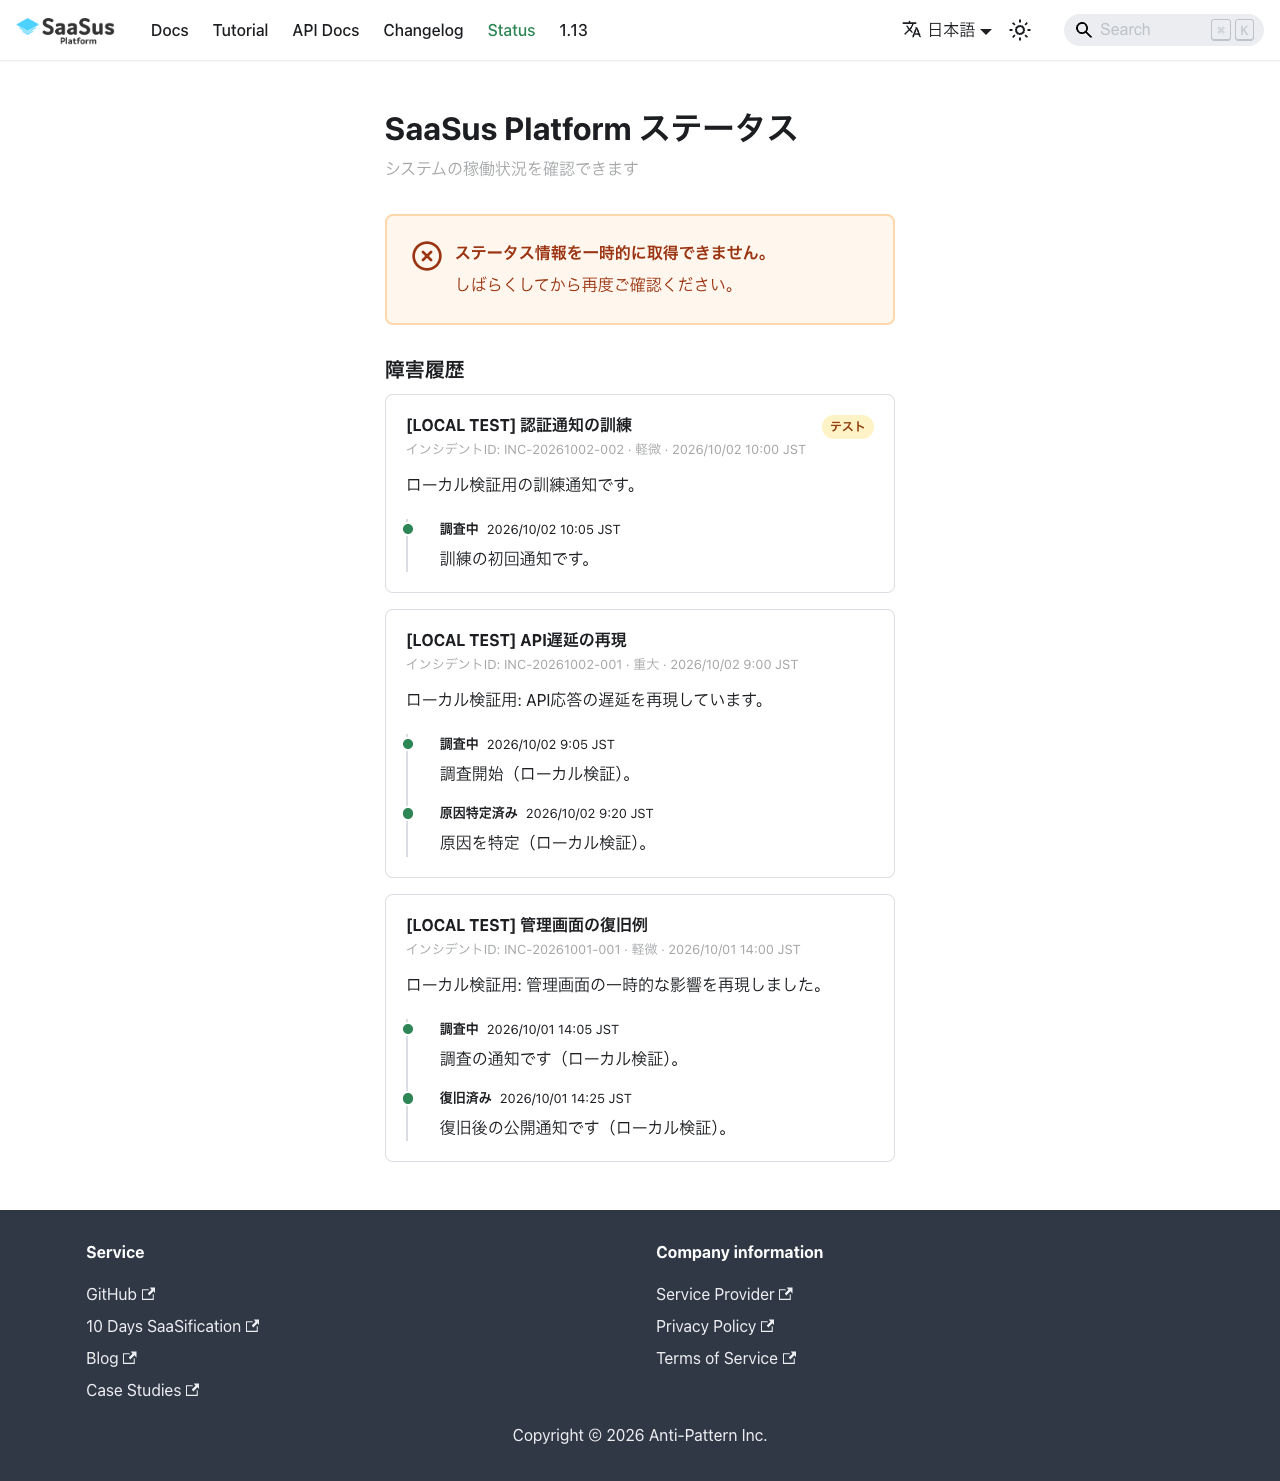
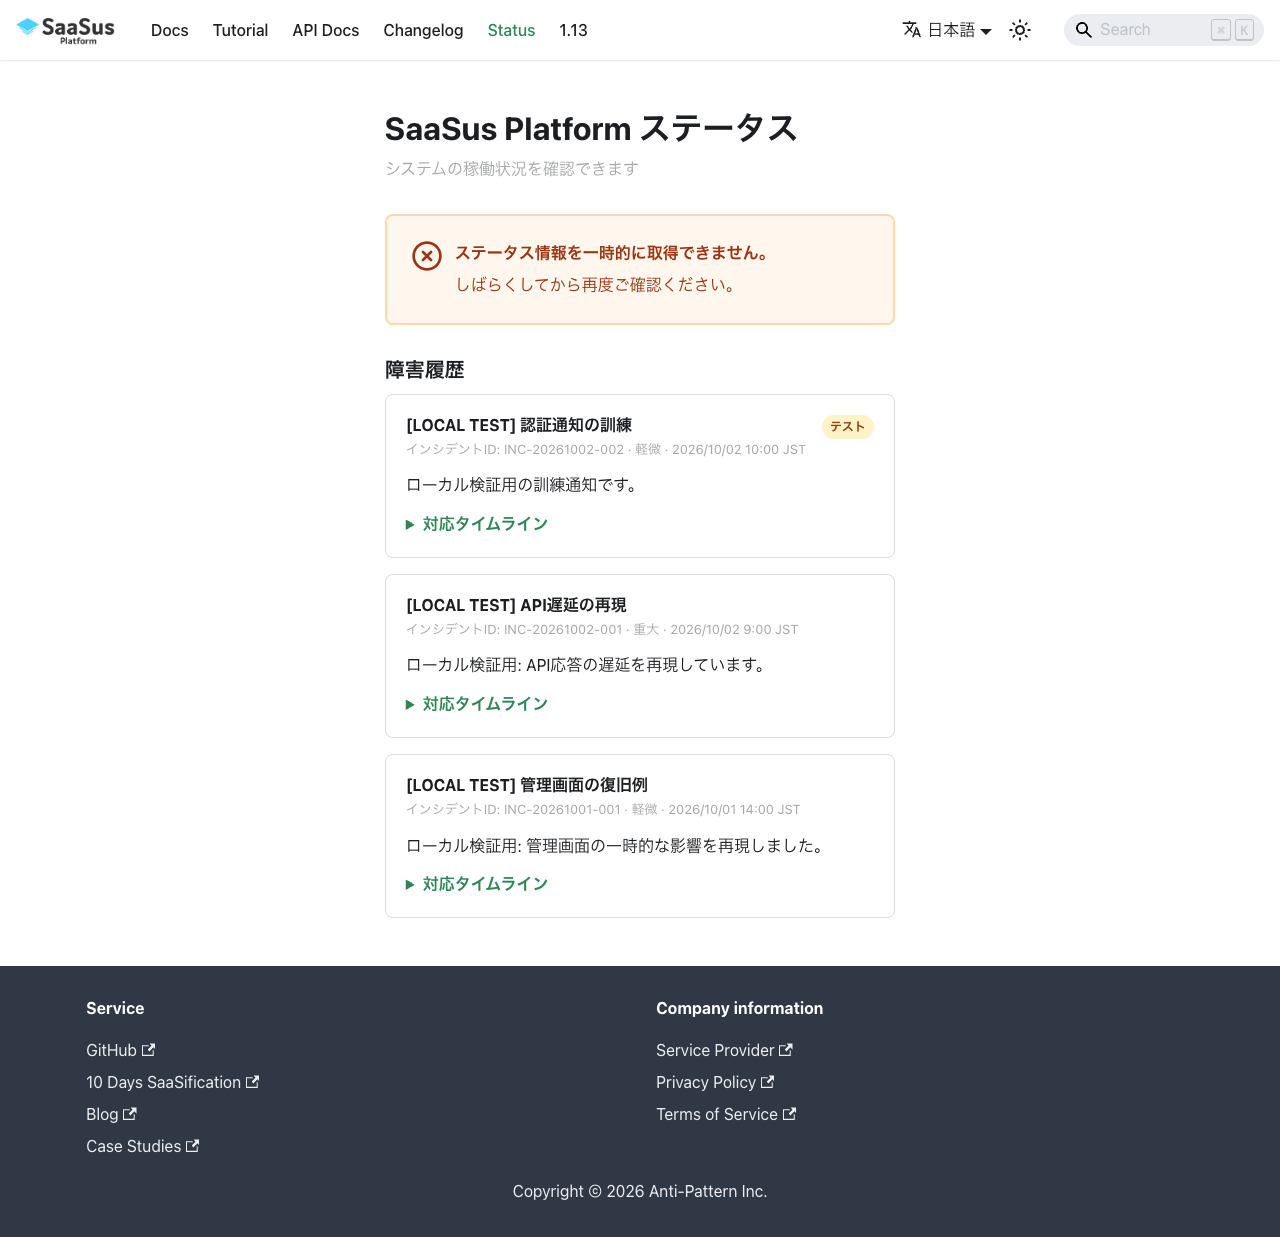
feat: paginate incident history and collapse response timelines

diff --git a/src/pages/status.tsx b/src/pages/status.tsx
@@ -287,6 +287,8 @@ function CurrentIncidentCard({
   );
 }
 
+const HISTORY_PAGE_SIZE = 10;
+
 function IncidentHistory({
   records,
   locale,
@@ -296,6 +298,28 @@ function IncidentHistory({
   locale: Locale;
   hasCurrentIncident: boolean;
 }) {
+  const [visibleCount, setVisibleCount] = useState(HISTORY_PAGE_SIZE);
+
+  // Preserve direct links to incidents beyond the initial page of history.
+  useEffect(() => {
+    const revealLinkedIncident = () => {
+      const incidentId = window.location.hash.slice(1);
+      const index = records.findIndex((record) => record.id === incidentId);
+      if (index < 0) return;
+      if (index >= visibleCount) {
+        setVisibleCount(Math.ceil((index + 1) / HISTORY_PAGE_SIZE) * HISTORY_PAGE_SIZE);
+        return;
+      }
+      const article = document.getElementById(incidentId);
+      const details = article?.querySelector('details');
+      if (details) details.open = true;
+      article?.scrollIntoView();
+    };
+    revealLinkedIncident();
+    window.addEventListener('hashchange', revealLinkedIncident);
+    return () => window.removeEventListener('hashchange', revealLinkedIncident);
+  }, [records, visibleCount]);
+
   return (
     <section className={styles.historySection} aria-labelledby="incident-history">
       <h2 id="incident-history" className={styles.sectionHeading}>
@@ -311,7 +335,7 @@ function IncidentHistory({
         </p>
       ) : (
         <div className={styles.historyList}>
-          {records.map((record) => (
+          {records.slice(0, visibleCount).map((record) => (
             <article className={styles.historyCard} key={record.id} id={record.id}>
               <div className={styles.historyHeader}>
                 <div>
@@ -332,9 +356,23 @@ function IncidentHistory({
                 )}
               </div>
               <p>{localized(record.impact, locale)}</p>
-              <IncidentTimeline record={record} locale={locale} />
+              <details className={styles.historyDetails}>
+                <summary>
+                  <Translate id="status.history.timeline">Response timeline</Translate>
+                </summary>
+                <IncidentTimeline record={record} locale={locale} />
+              </details>
             </article>
           ))}
+          {visibleCount < records.length && (
+            <button
+              type="button"
+              className={`button button--secondary button--outline ${styles.showMore}`}
+              onClick={() => setVisibleCount((count) => count + HISTORY_PAGE_SIZE)}
+            >
+              <Translate id="status.history.showMore">Show more</Translate>
+            </button>
+          )}
         </div>
       )}
     </section>

diff --git a/src/pages/status.module.css b/src/pages/status.module.css
@@ -345,3 +345,17 @@
     gap: 0.5rem;
   }
 }
+
+.historyDetails {
+  margin-top: 0.75rem;
+}
+
+.historyDetails > summary {
+  cursor: pointer;
+  color: var(--ifm-color-primary);
+  font-weight: 600;
+}
+
+.showMore {
+  justify-self: center;
+}
